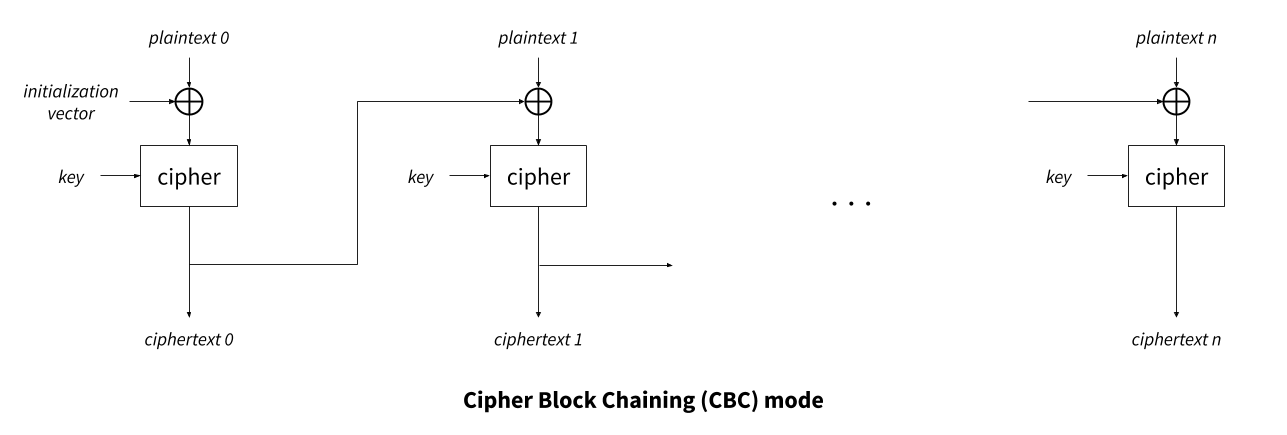
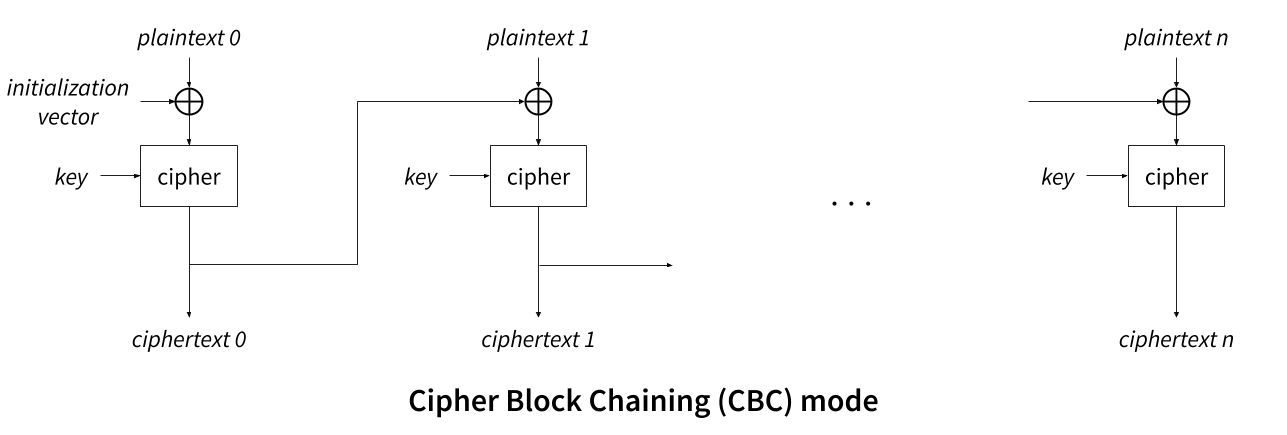
more work on post 2

diff --git a/assets/images/blog/adder/adder.tex b/assets/images/blog/adder/adder.tex
@@ -1,0 +1,49 @@
+\documentclass[crop,tikz]{standalone}
+
+\usepackage{tikz}
+\usepackage{circuitikz}
+\usetikzlibrary{circuits.logic.US}
+
+\begin{document}
+\begin{tikzpicture}[%
+          circuit logic US,
+          tiny circuit symbols,
+          every circuit symbol/.style={fill=white, draw},
+          node distance=3mm and 0mm,
+          branch/.style={fill,shape=circle,minimum size=3pt,inner sep=0pt}]
+
+  \node (a) at (0, 2) { $~A~$ };
+  \node (b) at (0, 1.5) { $~B~$ };
+  \node (cin) at (0, 0.9) { $C_{in}$ };
+
+  \node (invisible1) at (0, 2.1) { \phantom{invisible} };
+  \node (invisible2) at (0, -1.2) { \phantom{invisible} };
+
+  \node (s) at (8, 1) { $s$ };
+  \node (cout) at (8, -0.5) { $C_{out}$ };
+
+  \node[xor gate,minimum size=0.6cm] at ($(2,1.90)$) (xor1) {};
+  \node[xor gate,minimum size=0.6cm] at ($(4,1)$) (xor2) {};
+  \node[and gate,minimum size=0.6cm] at ($(4,0)$) (and1) {};
+  \node[and gate,minimum size=0.6cm] at ($(4,-1)$) (and2) {};
+  \node[xor gate,minimum size=0.6cm] at ($(6,-0.5)$) (xor3) {};
+
+  \draw (a.east) --++(180:-4mm) |- (xor1.input 1);
+  \draw (b.east) --++(180:-7mm) |- (xor1.input 2);
+  \draw (xor1.output) --++(180:-4mm) |- (xor2.input 1);
+  \draw (cin.east) |- (xor2.input 2);
+
+  \draw (a.east) --++(180:-4mm) |- (and2.input 1);
+  \draw (b.east) --++(180:-7mm) |- (and2.input 2);
+
+  \draw (xor1.output) --++(180:-4mm) |- (and1.input 1);
+  \draw (cin.east) --++(180:-10mm)    |- (and1.input 2);
+
+  \draw (and1.output) --++(180:-6mm) |- (xor3.input 1);
+  \draw (and2.output) --++(180:-6mm) |- (xor3.input 2);
+
+  \draw (xor2.output) |- (s.west);
+  \draw (xor3.output) |- (cout.west);
+
+\end{tikzpicture}
+\end{document}

diff --git a/_drafts/bitslicing.md b/_drafts/bitslicing.md
@@ -5,7 +5,7 @@ description: Introduction to bitslicing and mslicing
 lang: en
 locale: en_US
 author: Darius Mercadier
-excerpt: Bitslicing was initially introduced by Biham as an implementation trick to speed of software implementations of the DES cipher. The basic idea of bitslicing is to represent a _n_-bit data as 1 bit is _n_ distinct registers.
+excerpt: Bitslicing was initially introduced by Biham as an implementation trick to speed of software implementations of the DES cipher. The basic idea of bitslicing is to represent a n-bit data as 1 bit is n distinct registers.
 comments: false
 ---
 
@@ -102,30 +102,30 @@ A naive non-bitsliced C implementation would be:
 
 ```c
 char permut(char x) {
-    return ((x & 1)   >> 6) |
-           ((x & 2)   >> 2) |
-           ((x & 4)   << 2) |
-           ((x & 8)   >> 2) |
-           ((x & 16)  << 2) |
-           ((x & 32)  >> 2) |
-           ((x & 64)  << 2) |
-           ((x & 128) << 6);
+    return ((x & 128) >> 6) |
+           ((x & 64)  >> 2) |
+           ((x & 32)  << 2) |
+           ((x & 16)  >> 2) |
+           ((x & 8)   << 2) |
+           ((x & 4)   >> 2) |
+           ((x & 2)   << 2) |
+           ((x & 1)   << 6);
 }
 ```
 
 A clever developper (or a smart compiler) could notice that the three
 right-shifts by 2 can be merged together: 
-`((x & 2) >> 2) | ((x & 8) >> 2)` can be optimized to 
-`(x & (2 | 8)) >> 2`. The same goes for the three left-shifts, and the 
+`((x & 16) >> 2) | ((x & 8) >> 2)` can be optimized to 
+`(x & (16 | 8)) >> 2`. The same goes for the three left-shifts, and the 
 permutation can therefore be written as (with the masks written in
 binary for more simplicity):
 
 ```c
 char permut(char x) {
-    return ((x & 0b00000001) >> 6) |
-           ((x & 0b00101010) >> 2) |
-           ((x & 0b01010100) << 2) |
-           ((x & 0b10000000) << 6);
+    return ((x & 0b10000000) >> 6) |
+           ((x & 0b01010100) >> 2) |
+           ((x & 0b00101010) << 2) |
+           ((x & 0b00000001) << 6);
 }
 ```
 
@@ -149,11 +149,12 @@ void permut(bool x0, bool x1, bool x2, bool x3, bool x4,
 ```
 
 The C compiler can then inline this function, and get rid of the
-assigments by doing [copy
-propagation](https://en.wikipedia.org/wiki/Copy_propagation), thus
-effectively performing this permutation at compile time. (in the case
-that could don't trust your C compiler to perform this task, fear not:
-Usuba will do those optimizations itself)
+assigments by
+doing
+[copy propagation](https://en.wikipedia.org/wiki/Copy_propagation),
+thus effectively performing this permutation at compile time. (in the
+case that you don't trust your C compiler to perform this task, fear
+not: Usuba will do those optimizations itself)
 
 Finally, bitsliced codes run in constant-time, and are thus resilient
 against timing attacks. Conditional jumps on secret data prohibited:
@@ -175,12 +176,12 @@ would be implemented in a bitsliced code as:
 a = (x & b) | (~x & c);
 ```
 
-This would typically incur an overhead, but cryptographic primitives
-usually avoid making use on conditionals. Furthermore, bitslicing also
-prevents any memory access at an index depending on secret data, since
-each bit of the index would be in different registers, thus making
-bitslicing resilient to cache-timing attacks in addition to more
-general timing attacks.
+This would incur an overhead, but cryptographic primitives usually
+avoid using conditionals. Furthermore, bitslicing also prevents any
+memory access at an index depending on secret data, since each bit of
+the index would be in different registers, thus making bitslicing
+resilient to cache-timing attacks in addition to more general timing
+attacks.
 
 
 
@@ -214,14 +215,14 @@ operation_. The simplest mode of operation is Electronic Codebook
 encrypting them separately:
 
 <p align="center">
-<img src="{{ site.baseurl }}/assets/images/blog/ECB.png">
+<img src="{{ site.baseurl }}/assets/images/blog/ECB-small.png">
 </p>
 
 This mode of operation is not very secure because it lacks diffusion:
 two identical blocks will be encrypted into the same ciphertext. This
 can be exploited by an attacker to gain knowledge about the plaintext,
 as can be seen from the following example (taken from
-[Wikipedia](https://en.wikipedia.org/wiki/Block_cipher_mode_of_operation#ECB-weakness))):
+[Wikipedia](https://en.wikipedia.org/wiki/Block_cipher_mode_of_operation#ECB-weakness)):
 
 <p align="center">
 <img src="{{ site.baseurl }}/assets/images/blog/ECB-example.png">
@@ -236,7 +237,7 @@ plaintext with an additional secret data called an _initialization
 vector_:
 
 <p align="center">
-<img src="{{ site.baseurl }}/assets/images/blog/CBC.png">
+<img src="{{ site.baseurl }}/assets/images/blog/CBC-small.png">
 </p>
 
 However, because bitslicing encrypts many plaintexts in parallel, it
@@ -247,45 +248,68 @@ Cipher Feedback (CFB) and Output Feedback (OFB)).
 While this reduces the use case for bitslicing, there are still two
 ways of overcoming those issues:
 
- - In the case of a server encrypting a lot of independent data at
-   once, bitslicing can be done in such a way that each parallel data
-   encrypted is independent from the others. In pratice, it means that
-   to fully exploit _n_-bit registers, _n_ independent data must be
-   encrypted, which may be hard to obtain in practice.
+ - In the case of a server encrypting a lot of independent data
+   (coming from different clients), bitslicing can be done in such a
+   way that each parallel data encrypted is independent from the
+   others. In pratice, it means that to fully exploit _n_-bit
+   registers, _n_ independent data must be encrypted, which may be
+   hard to obtain in practice. Furthermore, this may incur a slight
+   management overhead.
    
  - A parallel mode could be used instead, like Counter mode (CTR). CTR
    works by encrypting a counter rather than the plaintext directly,
    and then xoring the encrypted counter with the plaintext, as shown
    below:
-
-<p align="center">
-<img src="{{ site.baseurl }}/assets/images/blog/CTR.png">
-</p>
+   
+   <p align="center">
+   <img src="{{ site.baseurl }}/assets/images/blog/CTR-small.png">
+   </p>
+   
+   Incrementing the counter can be done in parallel using SIMD
+   instructions:
+   
+   ```c
+   // Load 4 times the initial counter in a 128-bit SSE register
+   __m128i counters   = _mm_set1_epi32(counter);
+   // Load a SSE register with integers from 1 to 4
+   __m128i increments = _mm_set_epi32(1, 2, 3, 4);
+   // Increment each element of the counters register in parallel
+   counters = _mm_add_epi32(counters, increments);
+   ```
+   
+   
+   
 
 #### Transposition
 
 Transposing the data from a direct representation to a bitsliced one
 is expensive. Naively, this would be done bit by bit, with the
-following algorithm (assuming that `data` is a square matrix: 64
-64-bit registers, or 32 32-bit registers...):
+following algorithm for a matrix of 64 64-bit registers (a similar
+algorithm can be used for any matrix size):
 
-```python
-def naive_ortho(data):
-    transposed_data = new array[data.length]
-    for i = 0 to data.length:
-        for j = 0 to data.length:
-            transposed_data[j] = ((data[i] >> j) & 1) << i
-    return transposed_data
+```c
+void naive_transposition(uint64_t data[64]) {
+    // transposing |data| in a local array
+    uint64_t transposed_data[64] = { 0 };
+    for (int i = 0; i < 64; i++) {
+        for (int j = 0; j < 64; j++) {
+            transposed_data[j] |= ((data[i] >> j) & 1) << i;
+        }
+    }
+    // copying the local array into |data|, thus transposing |data| in-place
+    memcpy(data, transposed_data, 64 * sizeof(uint64_t));
+}
 ```
 
-This algorithm does 3 operations per bit of data, thus having a cost
-in _O(n)_ where _n_ is the size in bit of the input. Given that modern
-ciphers can have a cost as low as half a cycle per byte (like Chacha20
-on AVX-512 for instance), spending 1 cycle per bit (or 8 cycles per
-byte) transposing the data would make bitslicing impossible to use in
-practice. However, this transposition algorithm can be improved
-(Credited to Knuth [3] by Pornin [4]) by observing that the transpose
-of a matrix can be reccursively written as:
+This algorithm does 4 operations per bit of data (a left-shift `<<`, a
+right-shift `>>`, a bitwise and `&` and a bitwise or `|`), thus having
+a cost in _O(n)_ where _n_ is the size in bit of the input. Given that
+modern ciphers can have a cost as low as half a cycle per byte (like
+Chacha20 on AVX-512 for instance), spending 1 cycle per bit (or 8
+cycles per byte) transposing the data would make bitslicing impossible
+to use in practice. However, this transposition algorithm can be
+improved (credited to Knuth [3] by Pornin [4]) by observing that the
+transpose of a matrix can be reccursively written as:
 
 <p align="center">
 <img src="{{ site.baseurl }}/assets/images/blog/transpose.png">
@@ -296,15 +320,13 @@ this takes 6 iterations). Swapping B and C is done with shifts and
 `or`/`and` with masks. The key factor is than when doing this
 operation recursively, the same shifts and masks will be applied on A
 and B, and on C and D, thus saving a lot of operations over the naive
-algorithm. When applied to a matrix of size _n_x_n_, there are
+algorithm. When applied to a matrix of size _n_ x _n_, there are
 _log(n)_ steps to get to 2x2 matrices, each of them doing _n_
-operations to swap sub-matrices. The total cost is therefore
-_O(n*log(n))_ for a _n_x_n_ matrix, or _O(sqrt(n*log(n))/n)_ per
-bit. For all _n_ between 16 and 512, _sqrt(log(n))_ is between 2 and
-3, which means that the asymptotic cost per bit is about _sqrt(n)/n_ per
-bit. As shown in [5], on a modern Intel computer, this amounts to 1.10
-cycles per bits when _n = 16_, down to 0.09 cycles per bits when _n =
-512_.
+operations to swap sub-matrices B and C. The total cost is therefore
+_O(n*log(n))_ for a _n_ x _n_ matrix, or _O(sqrt(n*log(n)))_ for n
+bits. As shown in [5], on a modern Intel computer, this amounts to
+1.10 cycles per bits when _n = 16_, down to 0.09 cycles per bits when
+_n = 512_.
 
 This algorithm allows the transposition to have a low cost when
 compared to the whole cipher. Furthermore, in a setting where both the
@@ -316,7 +338,50 @@ be the case when encrypting a hard drive.
 #### Arithmetic operations
 
 Bitslicing prevents from using CPU arithmetic instructions (addition,
-multiplication...)
+multiplication...). In order to do arithmetic in bitslicing,
+arithmetic operations must be reimplemented using bitwise operations.
+
+For instance, to do an addition, one must implement an adder in
+software. The simplest adder is
+the
+[ripple-carry adder](https://en.wikipedia.org/wiki/Adder_(electronics)#Ripple-carry_adder),
+which works by chaining _n_ full adders to add two _n_-bit
+numbers. The circuit of a full adder is as follows:
+
+<p align="center">
+<img src="{{ site.baseurl }}/assets/images/blog/adder/adder.png">
+</p>
+
+A full adder takes two bits of input (A and B) and a carry (Cin), and
+returns the sum of A and B (s) as well as the new carry (Cout). A
+ripple-carry adder is simply a chain of such adders:
+
+<p align="center">
+<img src="{{ site.baseurl }}/assets/images/blog/carry-ripple-adder-small.png">
+</p>
+
+When implementing hardware, the dependency introduced by the carry
+limits performances because it prevents each output bit from being
+computed before the previous adder has produced the carry. Various
+techniques exist to overcome this issue, like
+the
+[carry-lookahead adder](https://en.wikipedia.org/wiki/Carry-lookahead_adder) which
+can be implemented in hardware with more parallelism than the
+carry-ripple. However, the carry dependency is less of an issue when
+executing an adder in software, because since a full adder is 5
+instructions (3 `xor` and 2 `and`), and modern CPU cannot execute more
+than 4 bitwise instructions per cycle.
+
+I
+[benchmarked](https://github.com/DadaIsCrazy/usuba/tree/master/experimentations/add)
+a carry-ripple adder implemented in software using SIMD bitwise
+operations against native CPU addition instructions on a Intel Skylake
+i5-6500: native instructions are 2 to 5 times faster than the sofware
+adder. 
+
+When it comes to more complex operations, like multiplications, the
+circuits are much more complex, and implementing them in software
+would yield poor performances
 
 <!--
 Generalized bitslicing: m-slicing
